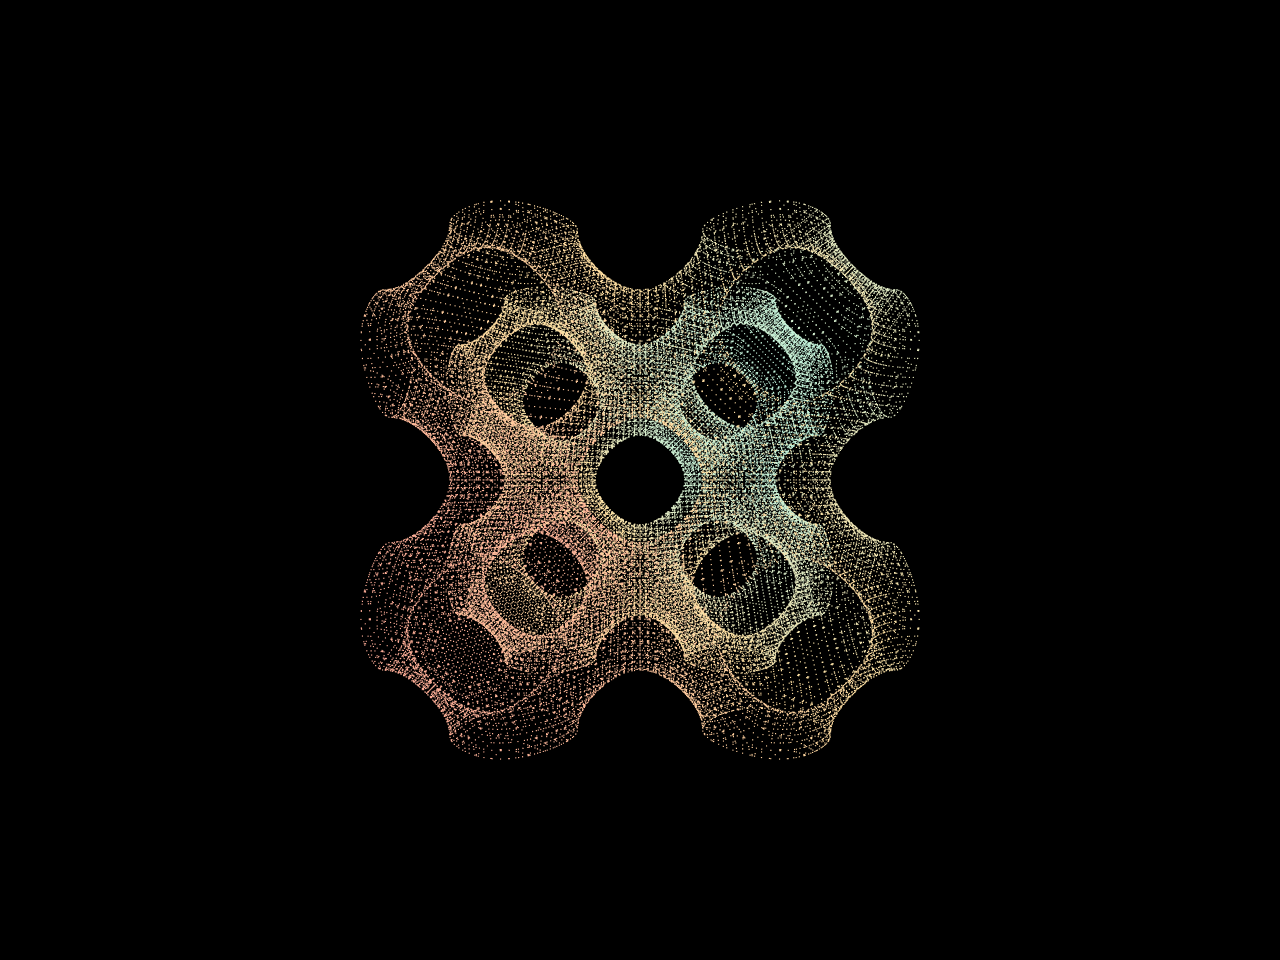
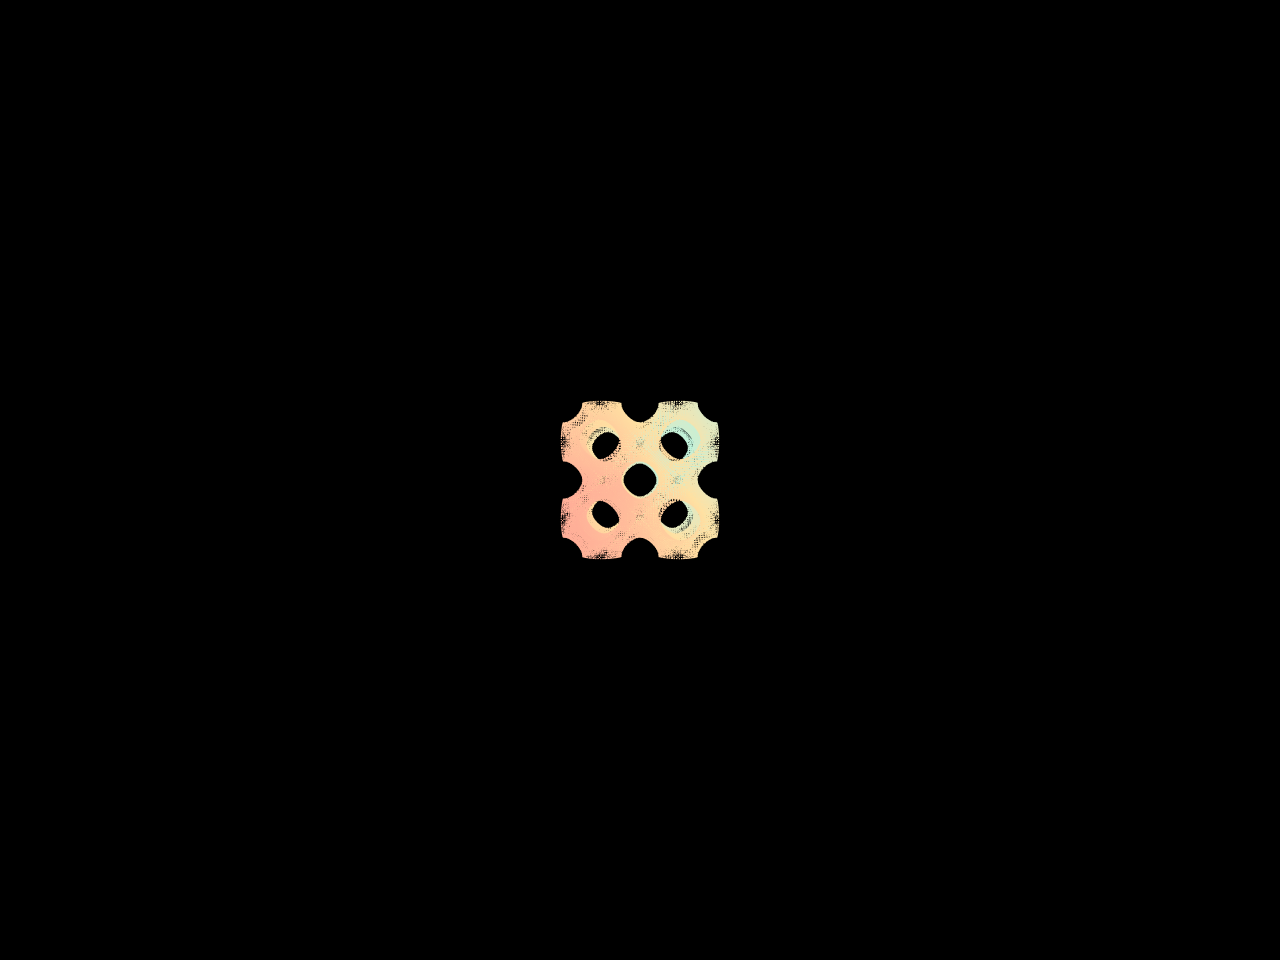
Keep TPMS tile cell size constant when scrubbing.

Changed region(s): [[0.2812, 0.2188, 0.7188, 0.7812]]

diff --git a/packages/frontend/src/utils/gyroid.ts b/packages/frontend/src/utils/gyroid.ts
@@ -27,42 +27,25 @@ export function clampTiles(tiles: number): number {
 	return Math.min(4, Math.max(1, Math.round(tiles)))
 }
 
-function centerAndScale(positions: Float32Array, targetRadius: number, count?: number) {
-	const vcount = count ?? positions.length / 3
-	if (vcount === 0) {
+function centerAndScaleTiles(
+	positions: Float32Array,
+	count: number,
+	nTiles: number,
+	targetRadius: number,
+) {
+	if (count === 0) {
 		return
 	}
-	let cx = 0
-	let cy = 0
-	let cz = 0
-	for (let i = 0; i < vcount; i++) {
-		cx += positions[i * 3]
-		cy += positions[i * 3 + 1]
-		cz += positions[i * 3 + 2]
-	}
-	cx /= vcount
-	cy /= vcount
-	cz /= vcount
-
-	let maxR = 0
-	for (let i = 0; i < vcount; i++) {
-		const x = positions[i * 3] - cx
-		const y = positions[i * 3 + 1] - cy
-		const z = positions[i * 3 + 2] - cz
-		positions[i * 3] = x
-		positions[i * 3 + 1] = y
-		positions[i * 3 + 2] = z
-		const r = Math.hypot(x, y, z)
-		if (r > maxR) {
-			maxR = r
-		}
-	}
-	if (maxR < EPS) {
-		return
-	}
-	const s = targetRadius / maxR
-	for (let i = 0; i < vcount * 3; i++) {
-		positions[i] *= s
+	/** Fixed scale from max tiles so one cell keeps a constant size (fit-to-frame made 2 look denser than 4). */
+	const maxTiles = 4
+	const extent = PERIOD * nTiles
+	const half = extent / 2
+	const s = targetRadius / (PERIOD * maxTiles)
+	for (let i = 0; i < count; i++) {
+		const i3 = i * 3
+		positions[i3] = (positions[i3] - half) * s
+		positions[i3 + 1] = (positions[i3 + 1] - half) * s
+		positions[i3 + 2] = (positions[i3 + 2] - half) * s
 	}
 }
 
@@ -125,7 +108,7 @@ export function sampleGyroidCloud(iso = 0, tiles = 2): GyroidCloud {
 		positions[i3 + 1] = mesh.positions[src + 1]
 		positions[i3 + 2] = mesh.positions[src + 2]
 	}
-	centerAndScale(positions, TARGET_R, keep)
+	centerAndScaleTiles(positions, keep, nTiles, TARGET_R)
 	for (let i = 0; i < keep; i++) {
 		const i3 = i * 3
 		writeRibbon(colors, i3, positions[i3], positions[i3 + 1], positions[i3 + 2])

diff --git a/packages/frontend/src/utils/schwarzP.ts b/packages/frontend/src/utils/schwarzP.ts
@@ -27,42 +27,25 @@ export type SchwarzPCloud = {
 	count: number
 }
 
-function centerAndScale(positions: Float32Array, targetRadius: number, count?: number) {
-	const vcount = count ?? positions.length / 3
-	if (vcount === 0) {
+function centerAndScaleTiles(
+	positions: Float32Array,
+	count: number,
+	nTiles: number,
+	targetRadius: number,
+) {
+	if (count === 0) {
 		return
 	}
-	let cx = 0
-	let cy = 0
-	let cz = 0
-	for (let i = 0; i < vcount; i++) {
-		cx += positions[i * 3]
-		cy += positions[i * 3 + 1]
-		cz += positions[i * 3 + 2]
-	}
-	cx /= vcount
-	cy /= vcount
-	cz /= vcount
-
-	let maxR = 0
-	for (let i = 0; i < vcount; i++) {
-		const x = positions[i * 3] - cx
-		const y = positions[i * 3 + 1] - cy
-		const z = positions[i * 3 + 2] - cz
-		positions[i * 3] = x
-		positions[i * 3 + 1] = y
-		positions[i * 3 + 2] = z
-		const r = Math.hypot(x, y, z)
-		if (r > maxR) {
-			maxR = r
-		}
-	}
-	if (maxR < EPS) {
-		return
-	}
-	const s = targetRadius / maxR
-	for (let i = 0; i < vcount * 3; i++) {
-		positions[i] *= s
+	/** Fixed scale from max tiles so one cell keeps a constant size (fit-to-frame made 2 look denser than 4). */
+	const maxTiles = 4
+	const extent = PERIOD * nTiles
+	const half = extent / 2
+	const s = targetRadius / (PERIOD * maxTiles)
+	for (let i = 0; i < count; i++) {
+		const i3 = i * 3
+		positions[i3] = (positions[i3] - half) * s
+		positions[i3 + 1] = (positions[i3 + 1] - half) * s
+		positions[i3 + 2] = (positions[i3 + 2] - half) * s
 	}
 }
 
@@ -123,7 +106,7 @@ export function sampleSchwarzPCloud(iso = 0, tiles = 2): SchwarzPCloud {
 		positions[i3 + 1] = mesh.positions[src + 1]
 		positions[i3 + 2] = mesh.positions[src + 2]
 	}
-	centerAndScale(positions, TARGET_R, keep)
+	centerAndScaleTiles(positions, keep, nTiles, TARGET_R)
 	for (let i = 0; i < keep; i++) {
 		const i3 = i * 3
 		writeRibbon(colors, i3, positions[i3], positions[i3 + 1], positions[i3 + 2])

diff --git a/packages/frontend/src/pages/misc/schwarz_p.tsx b/packages/frontend/src/pages/misc/schwarz_p.tsx
@@ -50,8 +50,8 @@ const SchwarzP = () => {
 	const iso = clampIso(data.t ?? datData.options.t.initialValue)
 	const tiles = clampTiles(data.tiles ?? datData.options.tiles.initialValue)
 	const dIso = useDeferredValue(iso)
-	const dTiles = useDeferredValue(tiles)
-	const cloud = useMemo(() => sampleSchwarzPCloud(dIso, dTiles), [dIso, dTiles])
+	/** Don't defer tiles — fit-to-frame + stale high-tile mesh read as the wrong cell count. */
+	const cloud = useMemo(() => sampleSchwarzPCloud(dIso, tiles), [dIso, tiles])
 
 	useEffect(() => {
 		seeded.current = false

diff --git a/packages/frontend/src/pages/misc/gyroid.tsx b/packages/frontend/src/pages/misc/gyroid.tsx
@@ -50,8 +50,8 @@ const Gyroid = () => {
 	const iso = clampIso(data.t ?? datData.options.t.initialValue)
 	const tiles = clampTiles(data.tiles ?? datData.options.tiles.initialValue)
 	const dIso = useDeferredValue(iso)
-	const dTiles = useDeferredValue(tiles)
-	const cloud = useMemo(() => sampleGyroidCloud(dIso, dTiles), [dIso, dTiles])
+	/** Don't defer tiles — fit-to-frame + stale high-tile mesh read as the wrong cell count. */
+	const cloud = useMemo(() => sampleGyroidCloud(dIso, tiles), [dIso, tiles])
 
 	useEffect(() => {
 		seeded.current = false
